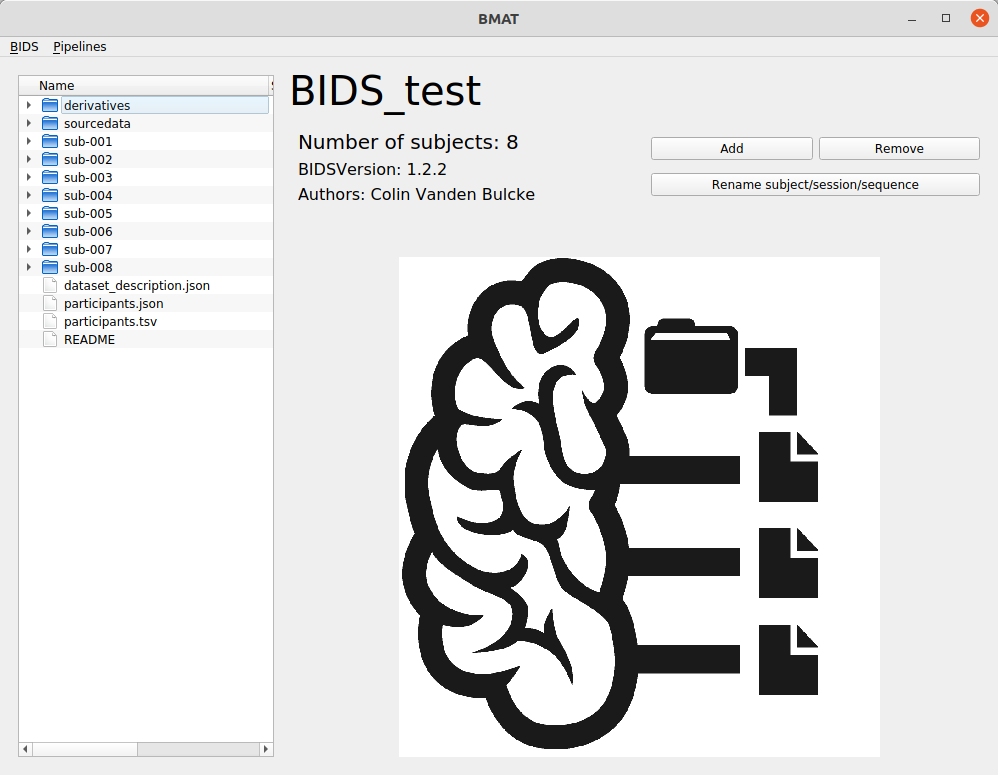
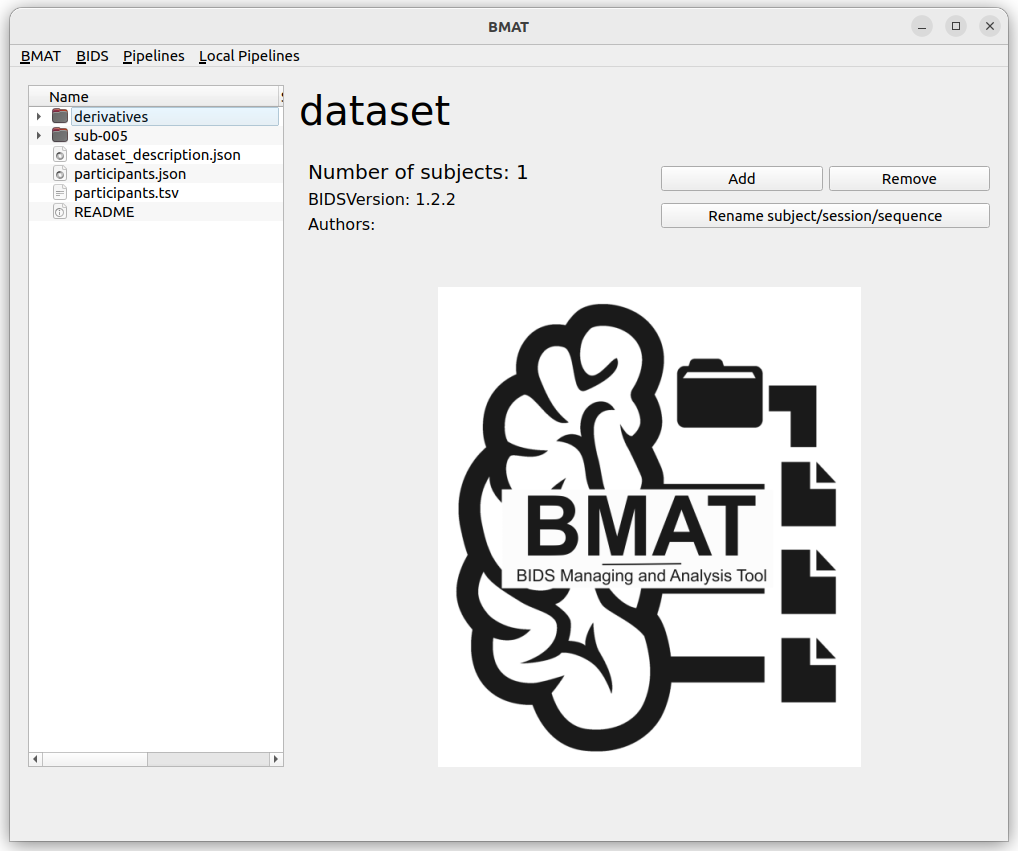
up Readme pic

diff --git a/README.md b/README.md
@@ -29,7 +29,8 @@ BMAT is now compatible to work with remote server using shared samba folder and 
         * [Available Pipelines](#available-pipelines)
     * [Local Pipelines](#local-pipelines)
         * [Adding Local Pipelines](#adding-local-pipelines)
-5. [Installation from Source Code](#installation-from-source-code)
+5. [Server compatibility (UCLouvain/IoNS)](#server-compatibility-uclouvainions)
+6. [Installation from Source Code](#installation-from-source-code)
     * [Dependencies](#dependencies-1)
         * [Python](#python)
             * [Linux](#linux)
@@ -114,6 +115,7 @@ Here is a picture of the main window of BMAT. It is composed of these different 
 * Dataset Information (top center): contains information about the dataset
 * Dataset Actions (top right): buttons to perform Actions on the dataset
 * Quick Viewer (bottom right): Quick viewer to observe the file in the dataset in a safe manner
+* BMAT menu: set preferences path for ITK-SNAP and dcm2niix
 * BIDS menu (top left): contains other other actions to manage the dataset
 * Pipelines menu (top left): add and run analysis pipelines shared by the BMAT-community
 * Local Pipelines menu (top left): run local analysis pipelines implemented by the user
@@ -163,7 +165,7 @@ This menu contains some more features to manage the BIDS dataset. Here is a desc
 * Create BIDS directory: this will open a similar window to the first one for the user to create a new empty folder to select and create a new empty BIDS dataset.
 * Change BIDS directory: this will open a similar window to the first one for the user to select a new folder corresponding to a new BIDS dataset.
 * BIDS Quality Control: this will run a *bids-validator* program that will give the user informations about the validity of his BIDS dataset according to the BIDS specifications as well as give a link towards the BIDS specifications
-* Update Authors: allows the user to update the name of the authors of the BIDS dataset. 
+* Update Dataset Description: allows the user to update the name of the authors of the BIDS dataset. 
 
 ### Pipelines Menu
 
@@ -177,7 +179,6 @@ By clicking on the *Add New Pipeline* item from the *Pipelines* drop-down menu, 
 
 The user can then click on any pipeline to open another specific window that shows the documentation of the pipeline, as can be found on GitHub (cf. Figure below). The user has the possibility to download the pipeline by clicking on the *Get Pipeline* button. 
 
-![Pipeline Window](/Readme_Pictures/phase_unwrap.png)
 
 #### Available pipelines
 
@@ -199,6 +200,9 @@ BMAT allows the user to add his own pipelines to the software to run specific in
     
 The implementation of the computation part of the pipeline can use docker container or can be implemented locally, allowing adaptability of the software to a wide range of Neuroimaging applications.
 
+## Server compatibility (UCLouvain/IoNS)
+
+TO DO
 
 ## Installation from source code
 
